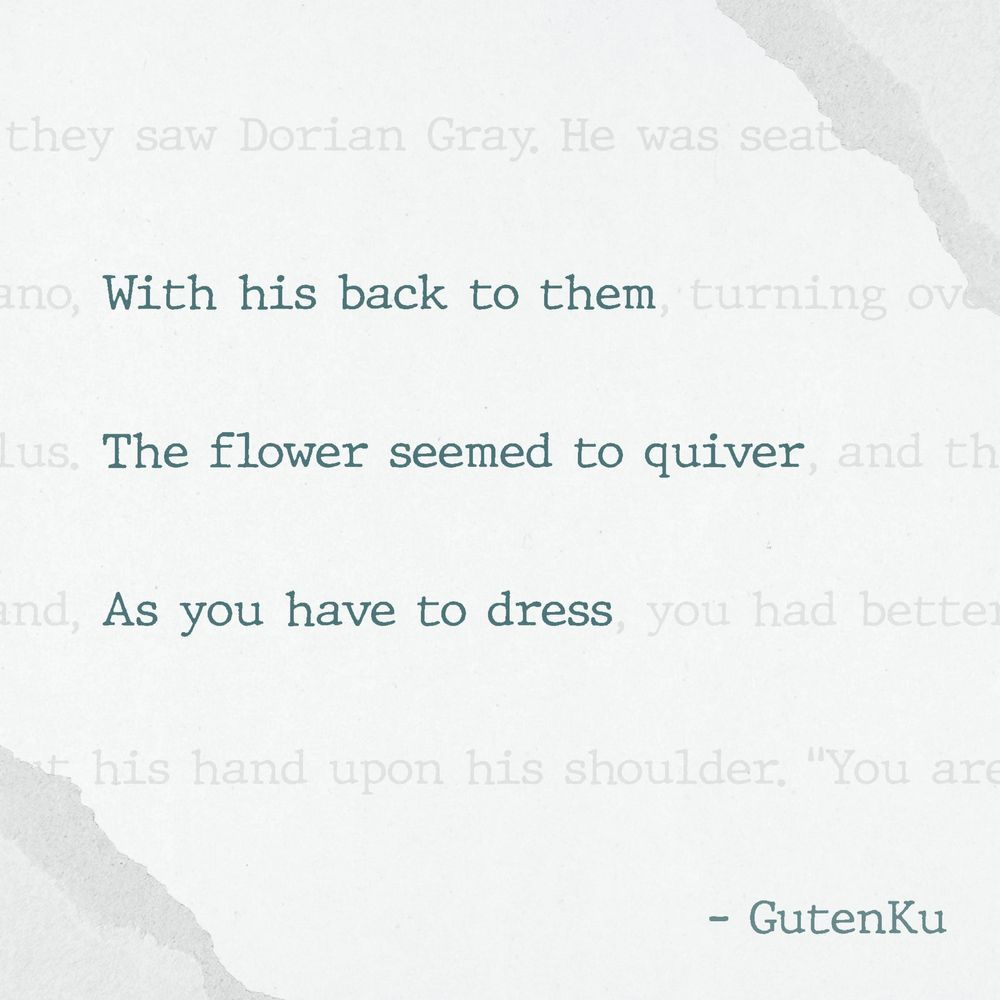
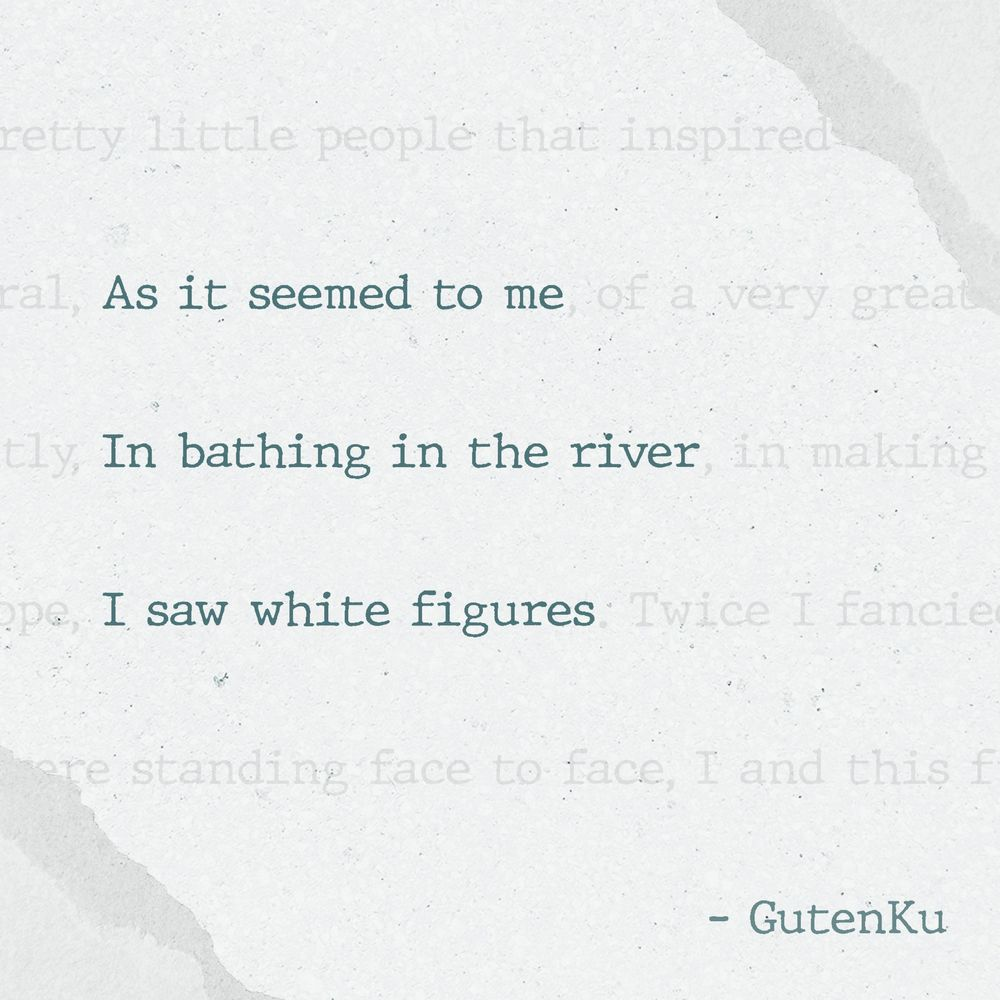
[Readme] Updated Daily Haiku Card

diff --git a/README.md b/README.md
@@ -2,9 +2,9 @@
 
 ## 🌸 Daily Haiku Card 🗻
 
-<img src="/assets/img/daily_haiku_card.jpg?t=1708387201" width="300" alt="Daily Haiku Card">
+<img src="/assets/img/daily_haiku_card.jpg?t=1708473601" width="300" alt="Daily Haiku Card">
 
-Last Snapshot: `Tue, 20 Feb 2024 00:00:01 +0000`
+Last Snapshot: `Wed, 21 Feb 2024 00:00:01 +0000`
 
 Want more? Visit 🔗[gutenku.xyz](https://gutenku.xyz) or come back tomorrow 😉
 
